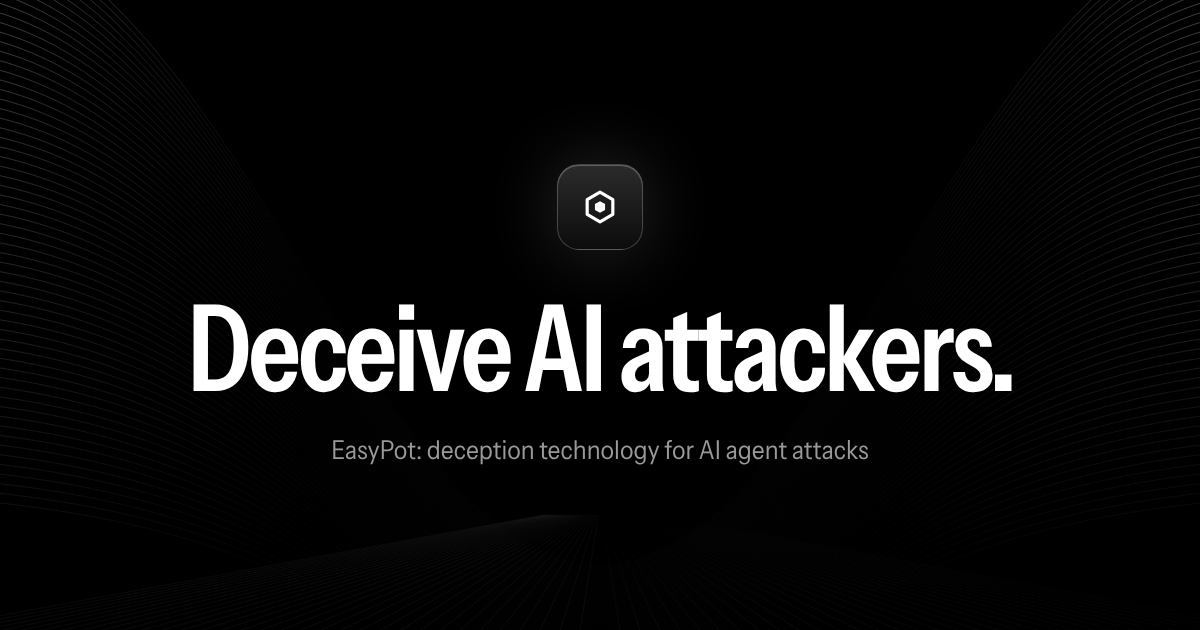
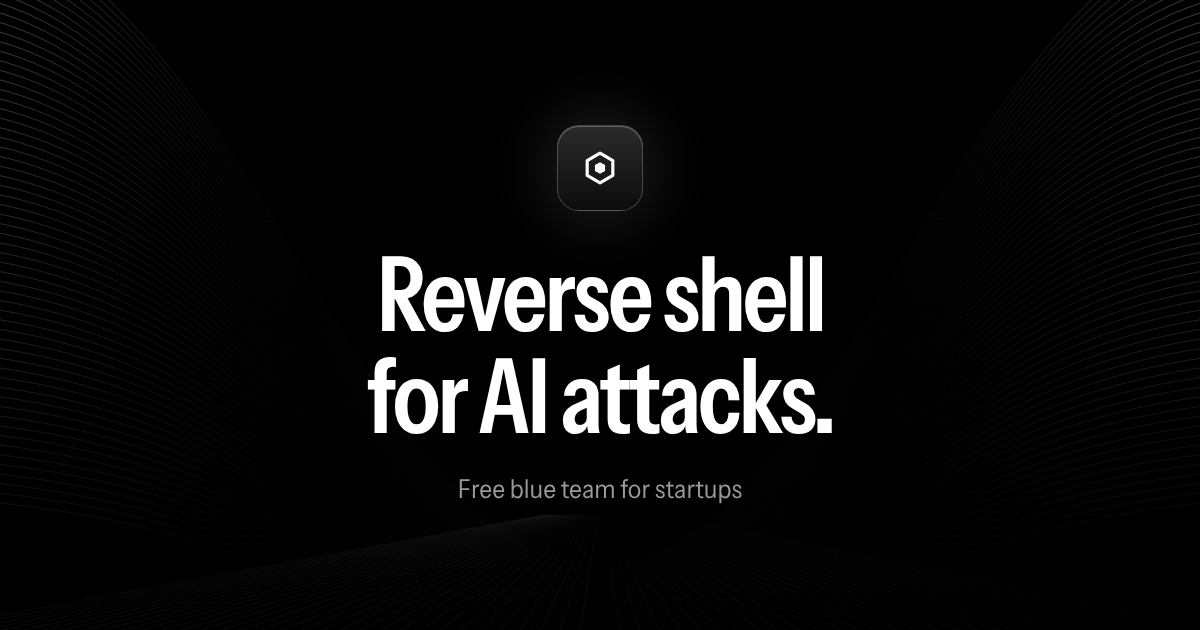
Landing headline; fix Docker crash and enable CVE traps by default
Landing page: headline "Reverse shell for AI attacks." with "Free blue
team for startups." beneath it. Title, description, social tags, share
image and JSON-LD (free offer) updated to match.

Fixes found while checking the platform end to end:

- The Docker image crashed on startup when run with environment
  variables only. The event log defaulted to ./data/events.jsonl, which
  the unprivileged node user cannot create in /app. An empty fileLog
  path now means <dataDir>/events.jsonl, so EASYPOT_DATA_DIR covers both.
- CVE traps were off unless a config set decoys.cvePack, so default
  installs (including the Docker image) ran without them. The bundled
  rules/cve-pack.json now loads by default; set cvePack to null to turn
  it off.

Claude-Session: https://claude.ai/code/session_015wtVTmvb2g8BLPFMqPnSxx

Changed region(s): [[0.1542, 0.3921, 0.8633, 0.8143], [0.4625, 0.181, 0.555, 0.3619]]

diff --git a/site/index.html b/site/index.html
@@ -3,23 +3,23 @@
 <head>
   <meta charset="utf-8">
   <meta name="viewport" content="width=device-width, initial-scale=1">
-  <title>EasyPot: deception technology for AI agent attacks</title>
-  <meta name="description" content="Deception technology for web apps. Detect AI agents, scanners and bots with decoys, honeytokens and prompt-injection tripwires, then block them at your firewall.">
+  <title>EasyPot: free blue team for startups against AI attacks</title>
+  <meta name="description" content="Free deception technology for startups. Detect AI agents, scanners and bots with decoys, honeytokens and prompt-injection tripwires, and block them at your firewall.">
   <meta name="robots" content="index, follow, max-image-preview:large">
   <meta name="color-scheme" content="dark">
   <meta name="theme-color" content="#000000">
   <!-- Once the site has its domain, add <link rel="canonical">, og:url, and make og:image and twitter:image absolute URLs. -->
   <meta property="og:type" content="website">
   <meta property="og:site_name" content="EasyPot">
-  <meta property="og:title" content="EasyPot: deceive AI attackers">
-  <meta property="og:description" content="High-fidelity deception for AI agents, scanners and bots. Detected on first touch, blocked at your firewall and SIEM.">
+  <meta property="og:title" content="EasyPot: reverse shell for AI attacks">
+  <meta property="og:description" content="Free blue team for startups. High-fidelity deception that detects AI agents, scanners and bots on first touch.">
   <meta property="og:image" content="og.png">
   <meta property="og:image:width" content="1200">
   <meta property="og:image:height" content="630">
-  <meta property="og:image:alt" content="EasyPot: deceive AI attackers.">
+  <meta property="og:image:alt" content="EasyPot: reverse shell for AI attacks. Free blue team for startups.">
   <meta name="twitter:card" content="summary_large_image">
-  <meta name="twitter:title" content="EasyPot: deceive AI attackers">
-  <meta name="twitter:description" content="High-fidelity deception for AI agents, scanners and bots. Detected on first touch.">
+  <meta name="twitter:title" content="EasyPot: reverse shell for AI attacks">
+  <meta name="twitter:description" content="Free blue team for startups. High-fidelity deception for AI agents, scanners and bots.">
   <meta name="twitter:image" content="og.png">
   <link rel="icon" href="favicon.svg" type="image/svg+xml">
   <link rel="apple-touch-icon" href="apple-touch-icon.png">
@@ -34,6 +34,7 @@
     "operatingSystem": "Linux, macOS, Windows (Node.js 22.13 or later), Docker",
     "description": "Deception technology that detects AI agents, scanners and bots with decoys, honeytokens and hidden tripwires, and blocks them at the firewall, Wazuh and SIEM.",
     "featureList": ["AI agent tripwires", "Decoy files and admin panels", "Per-visitor honeytokens", "CVE exploit traps", "Firewall blocklist feeds", "Wazuh and SIEM integration", "MITRE ATT&CK mapping"],
+    "offers": { "@type": "Offer", "price": "0", "priceCurrency": "USD", "description": "Free for startups" },
     "screenshot": "assets/dashboard.jpg"
   }
   </script>
@@ -57,8 +58,8 @@
     <section class="hero" id="top">
       <div class="hero-art" aria-hidden="true"><svg viewBox="0 0 1440 1040" preserveAspectRatio="xMidYMin slice" fill="none"><defs><linearGradient id="ln" x1="0" x2="1"><stop offset="0" stop-color="#fff" stop-opacity=".65"/><stop offset=".27" stop-color="#fff" stop-opacity=".08"/><stop offset=".5" stop-color="#fff" stop-opacity=".02"/><stop offset=".73" stop-color="#fff" stop-opacity=".08"/><stop offset="1" stop-color="#fff" stop-opacity=".65"/></linearGradient><linearGradient id="fl" y1="0" y2="1"><stop offset="0" stop-color="#fff" stop-opacity="0"/><stop offset="1" stop-color="#fff" stop-opacity=".13"/></linearGradient><radialGradient id="vg" cx=".5" cy=".3" r=".5"><stop offset=".35" stop-color="#000" stop-opacity=".9"/><stop offset="1" stop-color="#000" stop-opacity="0"/></radialGradient><linearGradient id="fade" y1="0" y2="1"><stop offset=".75" stop-color="#000" stop-opacity="0"/><stop offset="1" stop-color="#000"/></linearGradient></defs><g stroke="url(#fl)" stroke-width=".7"><path d="M652.0 760L-912.0 1050"/><path d="M654.0 760L-864.0 1050"/><path d="M656.0 760L-816.0 1050"/><path d="M658.0 760L-768.0 1050"/><path d="M660.0 760L-720.0 1050"/><path d="M662.0 760L-672.0 1050"/><path d="M664.0 760L-624.0 1050"/><path d="M666.0 760L-576.0 1050"/><path d="M668.0 760L-528.0 1050"/><path d="M670.0 760L-480.0 1050"/><path d="M672.0 760L-432.0 1050"/><path d="M674.0 760L-384.0 1050"/><path d="M676.0 760L-336.0 1050"/><path d="M678.0 760L-288.0 1050"/><path d="M680.0 760L-240.0 1050"/><path d="M682.0 760L-192.0 1050"/><path d="M684.0 760L-144.0 1050"/><path d="M686.0 760L-96.0 1050"/><path d="M688.0 760L-48.0 1050"/><path d="M690.0 760L0.0 1050"/><path d="M692.0 760L48.0 1050"/><path d="M694.0 760L96.0 1050"/><path d="M696.0 760L144.0 1050"/><path d="M698.0 760L192.0 1050"/><path d="M700.0 760L240.0 1050"/><path d="M702.0 760L288.0 1050"/><path d="M704.0 760L336.0 1050"/><path d="M706.0 760L384.0 1050"/><path d="M708.0 760L432.0 1050"/><path d="M710.0 760L480.0 1050"/><path d="M712.0 760L528.0 1050"/><path d="M714.0 760L576.0 1050"/><path d="M716.0 760L624.0 1050"/><path d="M718.0 760L672.0 1050"/><path d="M720.0 760L720.0 1050"/><path d="M722.0 760L768.0 1050"/><path d="M724.0 760L816.0 1050"/><path d="M726.0 760L864.0 1050"/><path d="M728.0 760L912.0 1050"/><path d="M730.0 760L960.0 1050"/><path d="M732.0 760L1008.0 1050"/><path d="M734.0 760L1056.0 1050"/><path d="M736.0 760L1104.0 1050"/><path d="M738.0 760L1152.0 1050"/><path d="M740.0 760L1200.0 1050"/><path d="M742.0 760L1248.0 1050"/><path d="M744.0 760L1296.0 1050"/><path d="M746.0 760L1344.0 1050"/><path d="M748.0 760L1392.0 1050"/><path d="M750.0 760L1440.0 1050"/><path d="M752.0 760L1488.0 1050"/><path d="M754.0 760L1536.0 1050"/><path d="M756.0 760L1584.0 1050"/><path d="M758.0 760L1632.0 1050"/><path d="M760.0 760L1680.0 1050"/><path d="M762.0 760L1728.0 1050"/><path d="M764.0 760L1776.0 1050"/><path d="M766.0 760L1824.0 1050"/><path d="M768.0 760L1872.0 1050"/><path d="M770.0 760L1920.0 1050"/><path d="M772.0 760L1968.0 1050"/><path d="M774.0 760L2016.0 1050"/><path d="M776.0 760L2064.0 1050"/><path d="M778.0 760L2112.0 1050"/><path d="M780.0 760L2160.0 1050"/><path d="M782.0 760L2208.0 1050"/><path d="M784.0 760L2256.0 1050"/><path d="M786.0 760L2304.0 1050"/><path d="M788.0 760L2352.0 1050"/></g><g stroke="url(#ln)" stroke-width=".8"><path d="M-60 40.0C280.0 80.0 440.0 820.0 720 820.0S1160.0 80.0 1500 40.0" stroke-opacity="0.71"/><path d="M-60 51.7C282.8 91.7 440.0 822.5 720 822.5S1157.2 91.7 1500 51.7" stroke-opacity="0.70"/><path d="M-60 63.3C285.7 103.3 440.0 825.0 720 825.0S1154.3 103.3 1500 63.3" stroke-opacity="0.69"/><path d="M-60 75.0C288.5 115.0 440.0 827.5 720 827.5S1151.5 115.0 1500 75.0" stroke-opacity="0.68"/><path d="M-60 86.7C291.3 126.7 440.0 830.0 720 830.0S1148.7 126.7 1500 86.7" stroke-opacity="0.67"/><path d="M-60 98.3C294.2 138.3 440.0 832.5 720 832.5S1145.8 138.3 1500 98.3" stroke-opacity="0.66"/><path d="M-60 110.0C297.0 150.0 440.0 835.0 720 835.0S1143.0 150.0 1500 110.0" stroke-opacity="0.66"/><path d="M-60 121.7C299.8 161.7 440.0 837.5 720 837.5S1140.2 161.7 1500 121.7" stroke-opacity="0.65"/><path d="M-60 133.3C302.7 173.3 440.0 840.0 720 840.0S1137.3 173.3 1500 133.3" stroke-opacity="0.64"/><path d="M-60 145.0C305.5 185.0 440.0 842.5 720 842.5S1134.5 185.0 1500 145.0" stroke-opacity="0.63"/><path d="M-60 156.7C308.3 196.7 440.0 845.0 720 845.0S1131.7 196.7 1500 156.7" stroke-opacity="0.62"/><path d="M-60 168.3C311.2 208.3 440.0 847.5 720 847.5S1128.8 208.3 1500 168.3" stroke-opacity="0.61"/><path d="M-60 180.0C314.0 220.0 440.0 850.0 720 850.0S1126.0 220.0 1500 180.0" stroke-opacity="0.60"/><path d="M-60 191.7C316.8 231.7 440.0 852.5 720 852.5S1123.2 231.7 1500 191.7" stroke-opacity="0.59"/><path d="M-60 203.3C319.7 243.3 440.0 855.0 720 855.0S1120.3 243.3 1500 203.3" stroke-opacity="0.58"/><path d="M-60 215.0C322.5 255.0 440.0 857.5 720 857.5S1117.5 255.0 1500 215.0" stroke-opacity="0.57"/><path d="M-60 226.7C325.3 266.7 440.0 860.0 720 860.0S1114.7 266.7 1500 226.7" stroke-opacity="0.56"/><path d="M-60 238.3C328.2 278.3 440.0 862.5 720 862.5S1111.8 278.3 1500 238.3" stroke-opacity="0.55"/><path d="M-60 250.0C331.0 290.0 440.0 865.0 720 865.0S1109.0 290.0 1500 250.0" stroke-opacity="0.55"/><path d="M-60 261.7C333.8 301.7 440.0 867.5 720 867.5S1106.2 301.7 1500 261.7" stroke-opacity="0.54"/><path d="M-60 273.3C336.7 313.3 440.0 870.0 720 870.0S1103.3 313.3 1500 273.3" stroke-opacity="0.53"/><path d="M-60 285.0C339.5 325.0 440.0 872.5 720 872.5S1100.5 325.0 1500 285.0" stroke-opacity="0.52"/><path d="M-60 296.7C342.3 336.7 440.0 875.0 720 875.0S1097.7 336.7 1500 296.7" stroke-opacity="0.51"/><path d="M-60 308.3C345.2 348.3 440.0 877.5 720 877.5S1094.8 348.3 1500 308.3" stroke-opacity="0.50"/><path d="M-60 320.0C348.0 360.0 440.0 880.0 720 880.0S1092.0 360.0 1500 320.0" stroke-opacity="0.49"/><path d="M-60 331.7C350.8 371.7 440.0 882.5 720 882.5S1089.2 371.7 1500 331.7" stroke-opacity="0.48"/><path d="M-60 343.3C353.7 383.3 440.0 885.0 720 885.0S1086.3 383.3 1500 343.3" stroke-opacity="0.47"/><path d="M-60 355.0C356.5 395.0 440.0 887.5 720 887.5S1083.5 395.0 1500 355.0" stroke-opacity="0.46"/><path d="M-60 366.7C359.3 406.7 440.0 890.0 720 890.0S1080.7 406.7 1500 366.7" stroke-opacity="0.45"/><path d="M-60 378.3C362.2 418.3 440.0 892.5 720 892.5S1077.8 418.3 1500 378.3" stroke-opacity="0.44"/><path d="M-60 390.0C365.0 430.0 440.0 895.0 720 895.0S1075.0 430.0 1500 390.0" stroke-opacity="0.44"/><path d="M-60 401.7C367.8 441.7 440.0 897.5 720 897.5S1072.2 441.7 1500 401.7" stroke-opacity="0.43"/><path d="M-60 413.3C370.7 453.3 440.0 900.0 720 900.0S1069.3 453.3 1500 413.3" stroke-opacity="0.42"/><path d="M-60 425.0C373.5 465.0 440.0 902.5 720 902.5S1066.5 465.0 1500 425.0" stroke-opacity="0.41"/><path d="M-60 436.7C376.3 476.7 440.0 905.0 720 905.0S1063.7 476.7 1500 436.7" stroke-opacity="0.40"/><path d="M-60 448.3C379.2 488.3 440.0 907.5 720 907.5S1060.8 488.3 1500 448.3" stroke-opacity="0.39"/><path d="M-60 460.0C382.0 500.0 440.0 910.0 720 910.0S1058.0 500.0 1500 460.0" stroke-opacity="0.38"/><path d="M-60 471.7C384.8 511.7 440.0 912.5 720 912.5S1055.2 511.7 1500 471.7" stroke-opacity="0.37"/><path d="M-60 483.3C387.7 523.3 440.0 915.0 720 915.0S1052.3 523.3 1500 483.3" stroke-opacity="0.36"/><path d="M-60 495.0C390.5 535.0 440.0 917.5 720 917.5S1049.5 535.0 1500 495.0" stroke-opacity="0.35"/><path d="M-60 506.7C393.3 546.7 440.0 920.0 720 920.0S1046.7 546.7 1500 506.7" stroke-opacity="0.34"/><path d="M-60 518.3C396.2 558.3 440.0 922.5 720 922.5S1043.8 558.3 1500 518.3" stroke-opacity="0.33"/><path d="M-60 530.0C399.0 570.0 440.0 925.0 720 925.0S1041.0 570.0 1500 530.0" stroke-opacity="0.33"/><path d="M-60 541.7C401.8 581.7 440.0 927.5 720 927.5S1038.2 581.7 1500 541.7" stroke-opacity="0.32"/><path d="M-60 553.3C404.7 593.3 440.0 930.0 720 930.0S1035.3 593.3 1500 553.3" stroke-opacity="0.31"/><path d="M-60 565.0C407.5 605.0 440.0 932.5 720 932.5S1032.5 605.0 1500 565.0" stroke-opacity="0.30"/><path d="M-60 576.7C410.3 616.7 440.0 935.0 720 935.0S1029.7 616.7 1500 576.7" stroke-opacity="0.29"/><path d="M-60 588.3C413.2 628.3 440.0 937.5 720 937.5S1026.8 628.3 1500 588.3" stroke-opacity="0.28"/><path d="M-60 600.0C416.0 640.0 440.0 940.0 720 940.0S1024.0 640.0 1500 600.0" stroke-opacity="0.27"/><path d="M-60 611.7C418.8 651.7 440.0 942.5 720 942.5S1021.2 651.7 1500 611.7" stroke-opacity="0.26"/><path d="M-60 623.3C421.7 663.3 440.0 945.0 720 945.0S1018.3 663.3 1500 623.3" stroke-opacity="0.25"/><path d="M-60 635.0C424.5 675.0 440.0 947.5 720 947.5S1015.5 675.0 1500 635.0" stroke-opacity="0.24"/><path d="M-60 646.7C427.3 686.7 440.0 950.0 720 950.0S1012.7 686.7 1500 646.7" stroke-opacity="0.23"/><path d="M-60 658.3C430.2 698.3 440.0 952.5 720 952.5S1009.8 698.3 1500 658.3" stroke-opacity="0.22"/><path d="M-60 670.0C433.0 710.0 440.0 955.0 720 955.0S1007.0 710.0 1500 670.0" stroke-opacity="0.21"/><path d="M-60 681.7C435.8 721.7 440.0 957.5 720 957.5S1004.2 721.7 1500 681.7" stroke-opacity="0.21"/><path d="M-60 693.3C438.7 733.3 440.0 960.0 720 960.0S1001.3 733.3 1500 693.3" stroke-opacity="0.20"/><path d="M-60 705.0C441.5 745.0 440.0 962.5 720 962.5S998.5 745.0 1500 705.0" stroke-opacity="0.19"/><path d="M-60 716.7C444.3 756.7 440.0 965.0 720 965.0S995.7 756.7 1500 716.7" stroke-opacity="0.18"/><path d="M-60 728.3C447.2 768.3 440.0 967.5 720 967.5S992.8 768.3 1500 728.3" stroke-opacity="0.17"/><path d="M-60 740.0C450.0 780.0 440.0 970.0 720 970.0S990.0 780.0 1500 740.0" stroke-opacity="0.16"/></g><rect width="1440" height="1040" fill="url(#vg)"/><rect width="1440" height="1040" fill="url(#fade)"/></svg></div>
       <div class="wrap hero-inner">
-        <h1>Deceive AI attackers.</h1>
-        <p class="hero-sub">High-fidelity deception for AI agents, scanners and bots. Detected on first touch, blocked at your firewall.</p>
+        <h1>Reverse shell for AI attacks.</h1>
+        <p class="hero-sub">Free blue team for startups.</p>
         <div class="hero-cta">
           <a class="btn btn-primary" href="#start">Get started</a>
           <a class="btn btn-ghost" href="#how">How it works</a>

diff --git a/src/config.ts b/src/config.ts
@@ -1,4 +1,6 @@
 import { readFileSync, existsSync } from 'node:fs';
+import { join } from 'node:path';
+import { fileURLToPath } from 'node:url';
 import { randomBytes } from 'node:crypto';
 import type { Severity } from './types.js';
 
@@ -57,7 +59,8 @@ const defaults: Config = {
   secret: '',
   dataDir: './data',
   admin: { host: '127.0.0.1', port: 8081, token: '', feedToken: '' },
-  decoys: { enabled: true, exclude: [], probeUpstream: true, cvePack: null },
+  // The CVE pack that ships with EasyPot is on by default; set cvePack to null to turn it off.
+  decoys: { enabled: true, exclude: [], probeUpstream: true, cvePack: fileURLToPath(new URL('../rules/cve-pack.json', import.meta.url)) },
   tripwires: {
     enabled: true,
     canaryPrefix: '/.well-known/agent-registration',
@@ -75,7 +78,8 @@ const defaults: Config = {
   allowlist: { ips: [], cidrs: [] },
   integrations: {
     syslog: { enabled: false, host: '127.0.0.1', port: 514, protocol: 'udp', format: 'json', minSeverity: 'low' },
-    fileLog: { enabled: true, path: './data/events.jsonl', minSeverity: 'low' },
+    // An empty path means <dataDir>/events.jsonl, so EASYPOT_DATA_DIR moves the event log too.
+    fileLog: { enabled: true, path: '', minSeverity: 'low' },
     webhooks: [],
   },
 };
@@ -109,6 +113,7 @@ export function loadConfig(path = process.env.EASYPOT_CONFIG ?? './easypot.confi
   if (env.EASYPOT_DATA_DIR) cfg.dataDir = env.EASYPOT_DATA_DIR;
   if (env.EASYPOT_TRUST_PROXY) cfg.trustProxy = env.EASYPOT_TRUST_PROXY === 'true';
   if (env.EASYPOT_SITE_NAME) cfg.siteName = env.EASYPOT_SITE_NAME;
+  if (!cfg.integrations.fileLog.path) cfg.integrations.fileLog.path = join(cfg.dataDir, 'events.jsonl');
 
   const generated: string[] = [];
   if (!cfg.secret) { cfg.secret = randomBytes(32).toString('hex'); generated.push('secret'); }

diff --git a/site/styles.css b/site/styles.css
@@ -59,8 +59,8 @@ a:focus-visible, button:focus-visible { outline: 2px solid var(--white); outline
 .hero-art { position: absolute; inset: 0 0 auto; height: 1040px; z-index: -1; pointer-events: none; }
 .hero-art svg { width: 100%; height: 100%; display: block; }
 .hero-inner { display: flex; flex-direction: column; align-items: center; text-align: center; }
-.hero h1 { font-size: clamp(64px, 11vw, 148px); font-stretch: 78%; font-weight: 600; letter-spacing: -.035em; line-height: .96; text-wrap: balance; }
-.hero-sub { margin-top: 24px; max-width: 46ch; text-wrap: balance; color: #b3b3b3; font-size: clamp(16px, 1.6vw, 19px); }
+.hero h1 { font-size: clamp(52px, 7.6vw, 110px); font-stretch: 78%; font-weight: 600; letter-spacing: -.035em; line-height: .96; text-wrap: balance; }
+.hero-sub { margin-top: 22px; max-width: 46ch; text-wrap: balance; font-size: clamp(18px, 2vw, 24px); color: #c9c9c9; }
 .hero-cta { display: flex; gap: 12px; margin-top: 36px; flex-wrap: wrap; justify-content: center; }
 
 .tile { position: relative; margin-top: 88px; width: 84px; height: 84px; display: grid; place-items: center; border-radius: 22px; color: var(--white);
